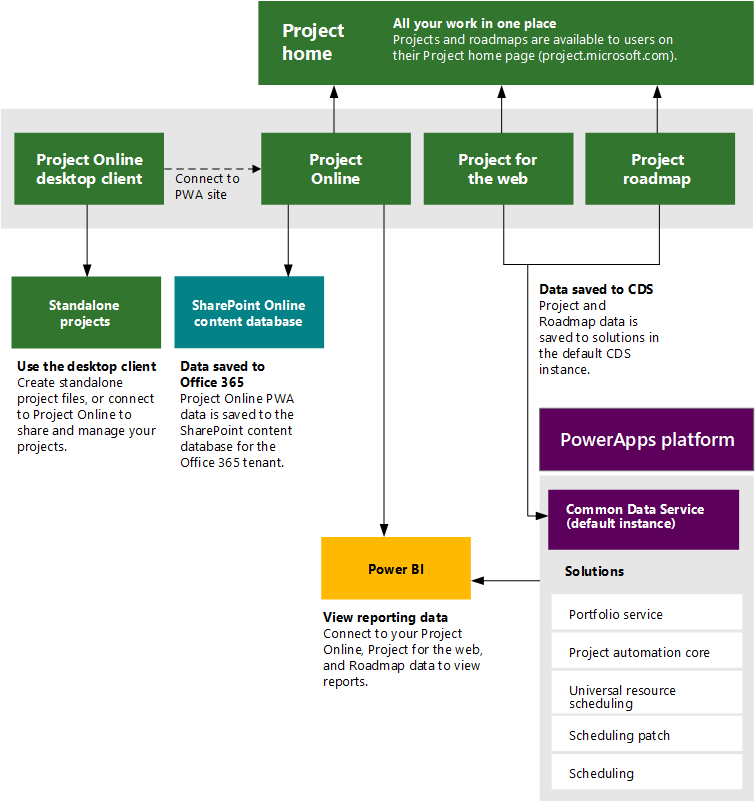
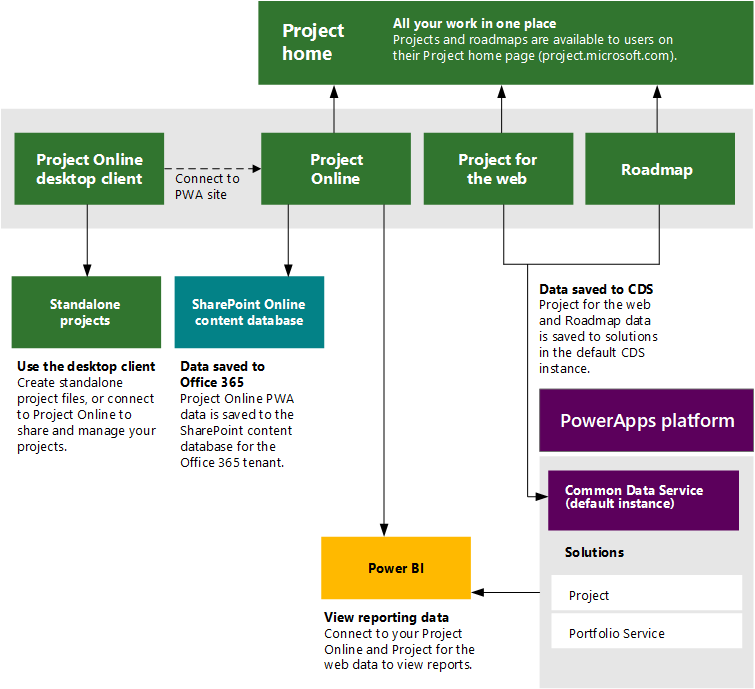
Added minor update.

diff --git a/ProjectWeb/project-architecture-overview.md b/ProjectWeb/project-architecture-overview.md
@@ -30,10 +30,11 @@ This article gives you an overview of the logical architecture that exists for k
 
 The architecture diagram above shows the key apps that are available through Project Plan subscriptions: 
 
-- Project Online Desktop Client
-- Project Online
+
 - Project for the web
 - Project Roadmap
+- Project Online
+- Project Online Desktop Client
 
 For more details about features that are available through these project apps and services, see [Feature availability across apps and subscriptions](https://docs.microsoft.com/office365/servicedescriptions/project-online-service-description/project-online-service-description#microsoft-project-subscriptions) in the Microsoft Project service description.  
 
@@ -43,22 +44,51 @@ The key Project apps described in this article are available in the following Pr
 
 |**Plan**|**Project Plan 1**|**Project Plan 3**|**Project Plan 5**|
 |:-----|:-----|:-----|:----|
-|Project Online Desktop Client<br/> |  No<br/> |Yes | Yes|
-|Project Online <br/> |No  <br/> |Yes| Yes|
 |Project or the web  <br/> |Yes  <br/> |Yes  |Yes|
 |Roadmap <br/>| No | Yes|Yes |
+|Project Online <br/> |No  <br/> |Yes| Yes|
+|Project Online Desktop Client<br/> |  No<br/> |Yes | Yes|
+
 
 
 > [!Note] 
-> In Project Plan 1, you can view roadmaps in read-only mode, but you cannot create them. 
+> In Project Plan 1, you can view roadmaps in read-only mode. 
 
 For more details on Project Plans, see the [Microsoft Project Service Description](https://docs.microsoft.com/office365/servicedescriptions/project-online-service-description/project-online-service-description).
 
-## Project Online Desktop Client
+## Project for the web
+[Project for the web](https://support.microsoft.com/office/what-is-project-for-the-web-c19b2421-3c9d-4037-97c6-f66b6e1d2eb5?ui=en-us&rs=en-us&ad=us) provides simple, powerful work management capabilities to meet most needs and roles. Project managers and team members can use Project for the web to plan and manage work of any size. 
 
-Many project managers use the Project Online desktop client as a personal productivity tool for their project management needs. They build schedules in the client, save them as .mpp files, share these files with others, and keep them updated as the project progresses.
+### Platform
+Project for the web is built on the [Microsoft Power Platform](https://powerplatform.microsoft.com). The Power Platform consists of [PowerApps](https://docs.microsoft.com/powerapps/powerapps-overview), [Power Automate](https://docs.microsoft.com/power-automate/getting-started), [Power BI](https://docs.microsoft.com/power-bi/fundamentals/power-bi-overview), and the [Common Data Service (CDS)](https://docs.microsoft.com/powerapps/maker/common-data-service/data-platform-intro). Project for the web data is stored in CDS. Access is provided through a supported web browser. 
 
- You can also use the Project Online Desktop Client  to [connect to a Project Online site](https://docs.microsoft.com/projectonline/connect-to-project-online-with-the-project-online-desktop-client) to take advantage of its enterprise project and portfolio management capabilities.
+Just like Project Online, users can access their Project for the web projects through the [Project Home page](https://support.office.com/article/get-started-with-project-home-a3b38418-35e7-4df4-8e4a-ba6a4fa0562a).  It will by default list projects that were recently viewed, owned by, or shared with the user.
+
+### Data storage
+Project for the web data is saved to the Common Data Service (CDS). CDS is part of the Microsoft Power Platform, which Project for the web is built on.  
+
+When Project for the web or Roadmap are first used in an Office 365 tenant, a Default CDS instance is provisioned for the tenant. Project for the web data is saved to the following [CDS Solutions](https://docs.microsoft.com/powerapps/maker/common-data-service/solutions-overview):
+
+- ProjectServiceCore
+- ProjectServiceCore_Anchor
+- ProjectServiceCore_Patch
+- Universal resource scheduling
+- Scheduling patch
+- Scheduling
+
+### Reporting
+You can use PowerBI Desktop to import and analyze not only your Project Online data, but also your Project for the web data as well. You can use the same [Project Power BI template](https://docs.microsoft.com/project-for-the-web/connect-to-project-for-the-web-data-through-powerbi-desktop) to view a Portfolio dashboard of reports that can be helpful in analyzing your data.
+
+
+## Project Roadmap
+Use [Roadmap](https://support.office.com/article/Video-Welcome-to-Roadmap-57764149-51b8-468f-a50d-9ea6a4fd835a) to create a collective view of projects that are important to you. Your roadmap can connect to projects created in multiple tools, such as Project Online, Project for the web, and Azure DevOps.  
+
+### Data storage
+Roadmap data is saved to entities in the following CDS solutions:
+
+- PortfolioService
+- PortfolioService_Anchor
+- PortfolioService_Patch
 
 ## Project Online
 
@@ -75,34 +105,11 @@ Project Online data is stored to the SharePoint Content Database in Office 365. 
 ### Reporting 
 You can use PowerBI Desktop to import and analyze your Project Online data. You can use the [Project Power BI template](https://docs.microsoft.com/project-for-the-web/connect-to-project-for-the-web-data-through-powerbi-desktop) to view a Portfolio dashboard of reports that can be helpful in analyzing your data.
 
-## Project for the web
-[Project for the web](https://support.microsoft.com/office/what-is-project-for-the-web-c19b2421-3c9d-4037-97c6-f66b6e1d2eb5?ui=en-us&rs=en-us&ad=us) provides simple, powerful work management capabilities to meet most needs and roles. Project managers and team members can use Project for the web to plan and manage work of any size. 
+## Project Online Desktop Client
 
-### Platform
-Project for the web is built on the [Microsoft Power Platform](https://powerplatform.microsoft.com). The Power Platform consists of [PowerApps](https://docs.microsoft.com/powerapps/powerapps-overview), [Power Automate](https://docs.microsoft.com/power-automate/getting-started), [Power BI](https://docs.microsoft.com/power-bi/fundamentals/power-bi-overview), and the [Common Data Service (CDS)](https://docs.microsoft.com/powerapps/maker/common-data-service/data-platform-intro). Project for the web data is stored in CDS. Access is provided through a supported web browser. 
+Many project managers use the Project Online desktop client as a personal productivity tool for their project management needs. They build schedules in the client, save them as .mpp files, share these files with others, and keep them updated as the project progresses.
 
-Just like Project Online, users can access their Project for the web projects through the [Project Home page](https://support.office.com/article/get-started-with-project-home-a3b38418-35e7-4df4-8e4a-ba6a4fa0562a).  It will by default list projects that were recently viewed, owned, or shared with the user.
-
-### Data storage
-Project for the web data is saved to the Common Data Service (CDS). CDS is part of the Microsoft Power Platform, which Project for the web is built on.  
-
-When Project for the web or Roadmap are first used in an Office 365 tenant, a Default CDS instance is provisioned for the tenant. Project for the web data is saved to the following [CDS Solutions](https://docs.microsoft.com/powerapps/maker/common-data-service/solutions-overview):
-
-- Project automation core
-- Universal resource scheduling
-- Scheduling patch
-- Scheduling
-
-### Reporting
-You can use PowerBI Desktop to import and analyze not only your Project Online data, but also your Project for the web data as well. You can use the same [Project Power BI template](https://docs.microsoft.com/project-for-the-web/connect-to-project-for-the-web-data-through-powerbi-desktop) to view a Portfolio dashboard of reports that can be helpful in analyzing your data.
-
-
-## Project Roadmap
-Use [Roadmap](https://support.office.com/article/Video-Welcome-to-Roadmap-57764149-51b8-468f-a50d-9ea6a4fd835a) to create a collective view of projects that are important to you. Your roadmap can connect to projects created in multiple tools, such as Project Online, Project for the web, and Azure DevOps.  
-
-Project for the web data is saved to the Portfolio Service solution in CDS.
-
-
+ You can also use the Project Online Desktop Client  to [connect to a Project Online site](https://docs.microsoft.com/projectonline/connect-to-project-online-with-the-project-online-desktop-client) to take advantage of its enterprise project and portfolio management capabilities.
 
 
 

diff --git a/ProjectWeb/turn-project-for-the-web-off.md b/ProjectWeb/turn-project-for-the-web-off.md
@@ -70,6 +70,15 @@ If an admin tries to access the Project settings page and receives the error mes
 > [!Important]
 > Turning Project for the web on or off will have no effect on your ability to use Project Online. </br>
 
+### Project for the web is not turned on for your organization
+
+If your licensed users were previously able to use Project for the web, but are no longer able to, you can resolve this by turning on Project for the web in the steps described above.
+
+The problem will appear as:
+- Your users will no longer see the **New blank project** option on the Project Home page.
+- When opening a project, users will see the error **Project is not turned on for your organization**. 
+
+
 ## Turn off Project for the web for specific users in your organization
 
  An admin can manage access to Project for the web for specific users by turning off the service for their associated Project Plan licenses. This assumes that that Project for the web is turned turned on for the organization in the Project settings page in the Microsoft 365 admin center.
@@ -161,7 +170,7 @@ An admin can do the following to turn Roadmap on or off for their organization:
 If your licensed users were previously able to use Roadmap, but are no longer able to, you can resolve this by turning on Roadmap in the steps described above.
 
 The problem will appear as:
-1. Your users will no longer see the **Create Roadmap** option on the Project Home page.
+1. Your users will no longer see the **New Roadmap** option on the Project Home page.
 2. When opening a roadmap, users will see the error **Roadmap is not turned on for your organization**.
 
 

diff --git a/ProjectWeb/connect-to-project-for-the-web-data-through-powerbi-desktop.md b/ProjectWeb/connect-to-project-for-the-web-data-through-powerbi-desktop.md
@@ -104,6 +104,7 @@ After Power BI Desktop retrieves the data, the visualizations in each report pag
 
 From the Power BI Desktop, we recommend [publishing the report to a shared workspace](https://docs.microsoft.com/power-bi/desktop-upload-desktop-files), and then [configure scheduled refresh of the data to keep your dataset up to date](https://docs.microsoft.com/power-bi/refresh-scheduled-refresh).
 
+
 ## See also
 
 [Compose HTTP requests and handle errors](https://docs.microsoft.com/powerapps/developer/common-data-service/webapi/compose-http-requests-handle-errors#web-api-url-and-versions)
